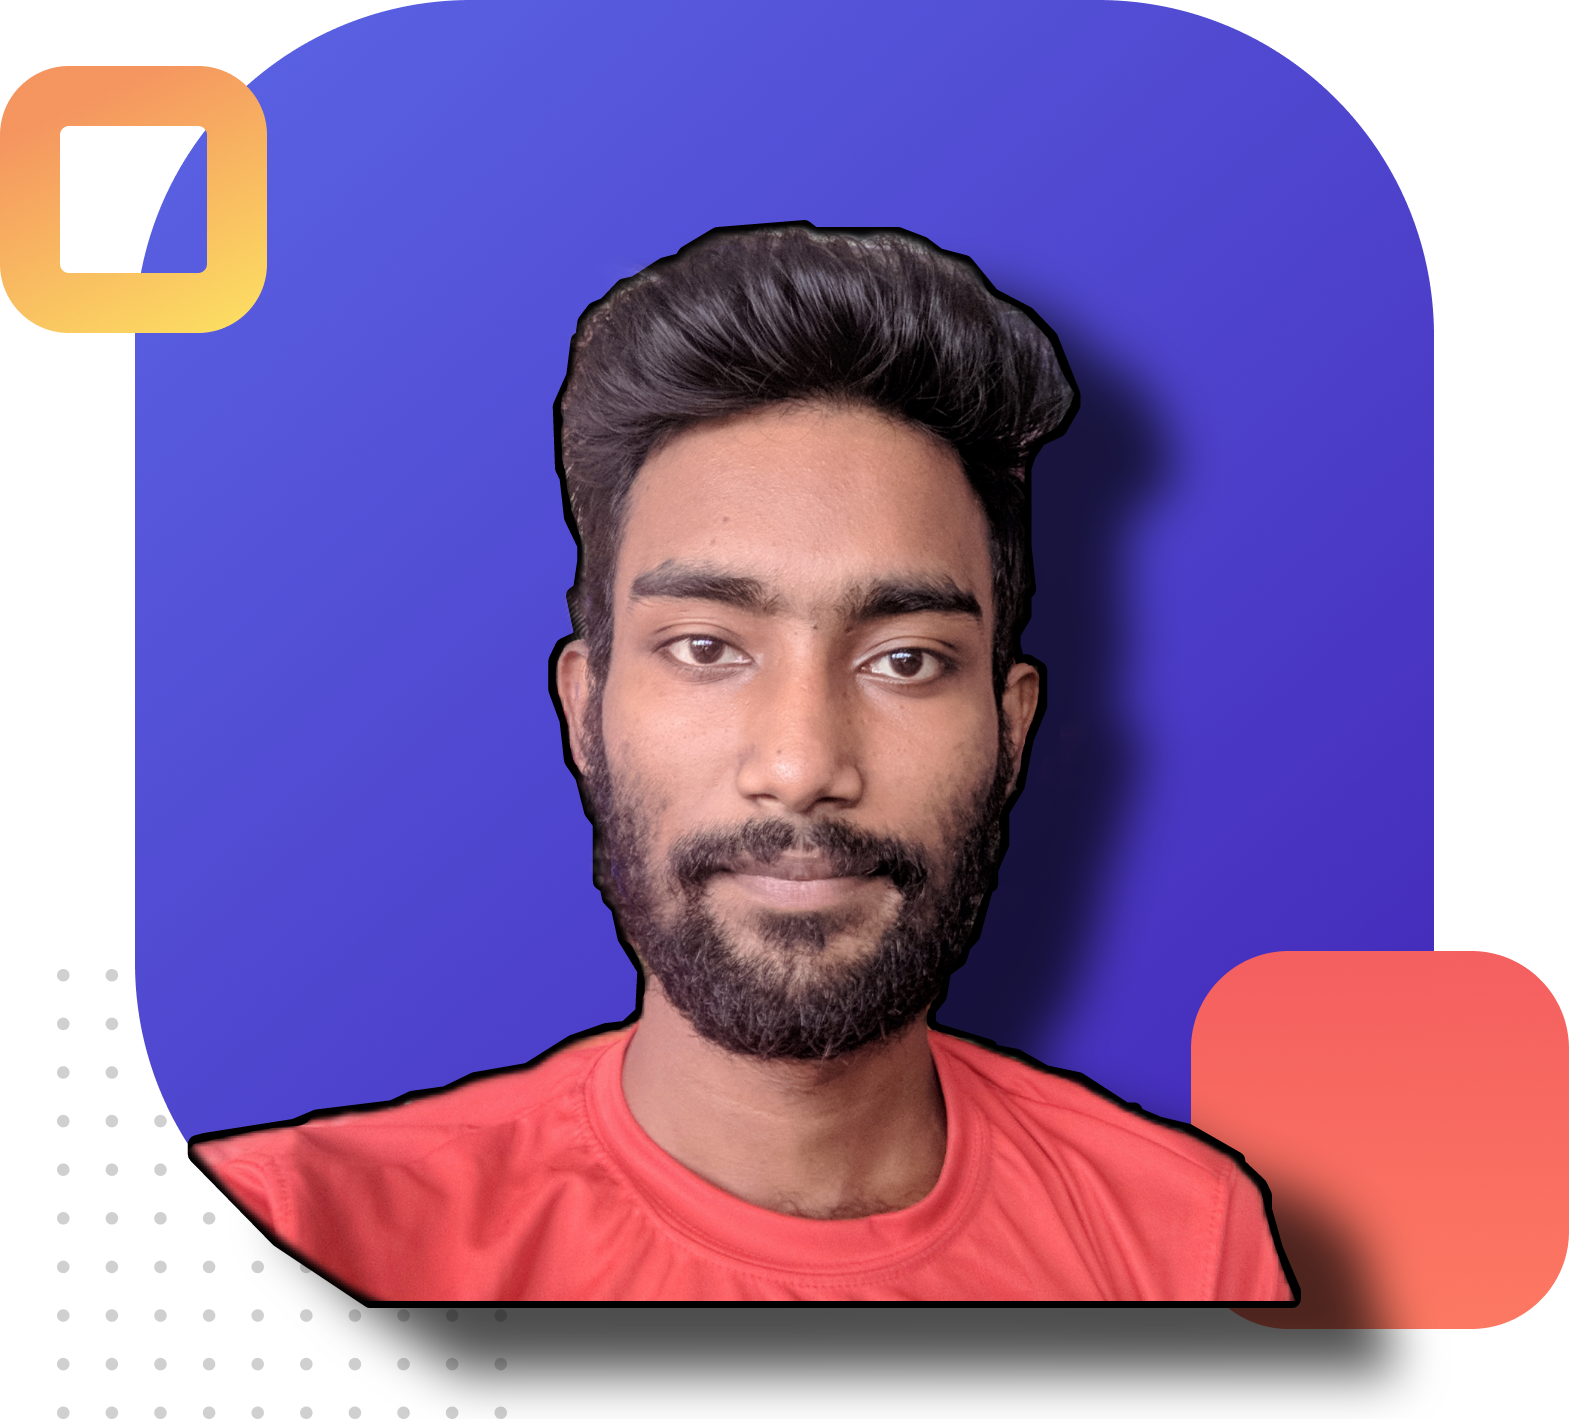
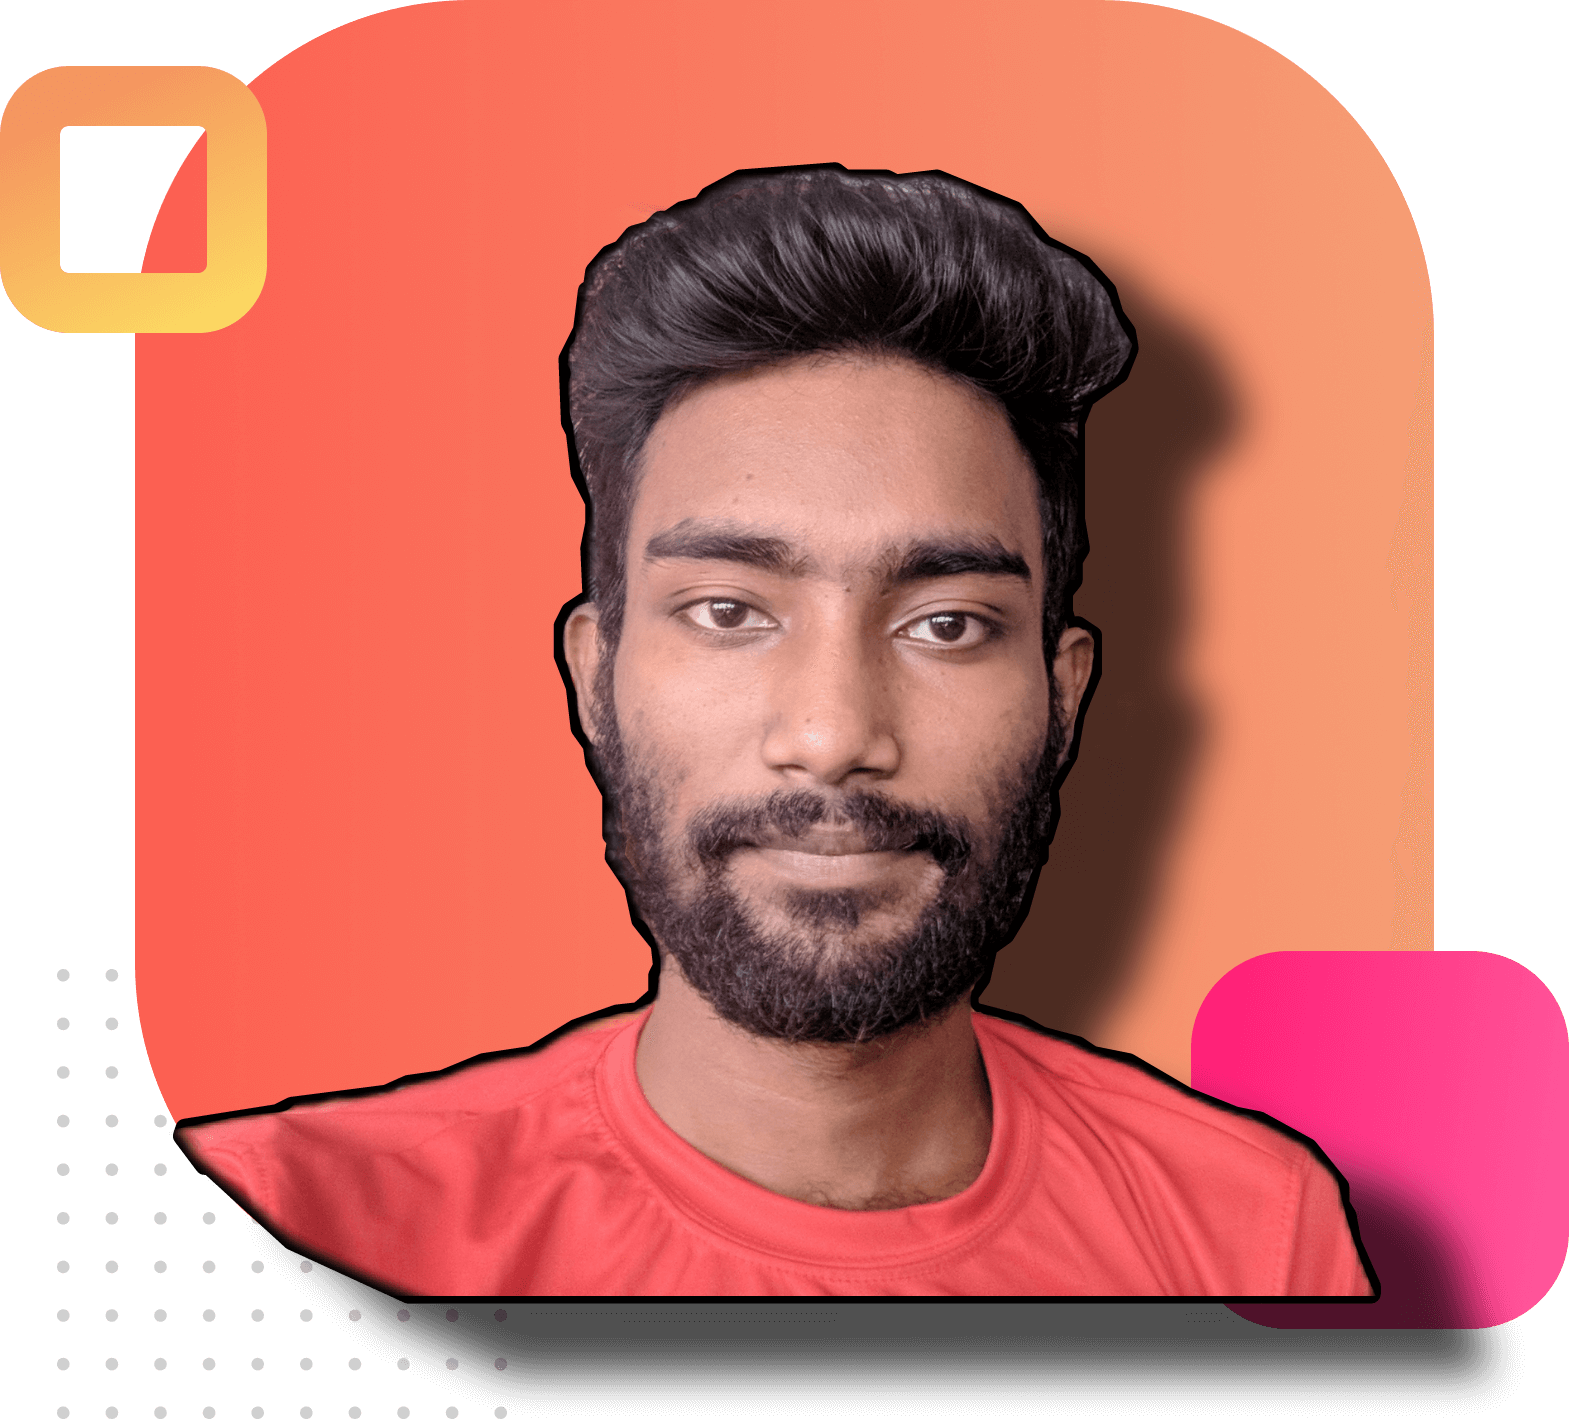
compressed image

diff --git a/src/components/ContactMe/ContactMe.js b/src/components/ContactMe/ContactMe.js
@@ -1,12 +1,10 @@
 import React from "react";
 import emailjs from "emailjs-com";
-
 import "./ContactMe.css";
 
 export default function ContactMe() {
   function sendEmail(e) {
     e.preventDefault();
-
     emailjs
       .sendForm(
         "service_robinsrk3",
@@ -23,7 +21,6 @@ export default function ContactMe() {
         }
       );
   }
-
   return (
     <div id="contactus" className="pt-5">
       <h1

diff --git a/src/components/About/About.js b/src/components/About/About.js
@@ -1,7 +1,7 @@
 import { MDBBtn, MDBCol, MDBContainer, MDBIcon, MDBRow } from "mdbreact";
 import React from "react";
 import "./About.css";
-import profile from "../../images/dp3.png";
+import profile from "../../images/dp.png";
 import Experiences from "../Experiences/Experiences";
 import { Bounce, Zoom } from "react-reveal";
 

diff --git a/src/components/Home/Home.js b/src/components/Home/Home.js
@@ -1,7 +1,7 @@
 import { MDBBtn, MDBCol, MDBContainer, MDBIcon, MDBRow } from "mdbreact";
 import React from "react";
 import "./Home.css";
-import image from "../../images/dp3.png";
+import image from "../../images/dp.png";
 
 import ParticlesBg from "particles-bg";
 import DecryptName from "./DecryptName";
